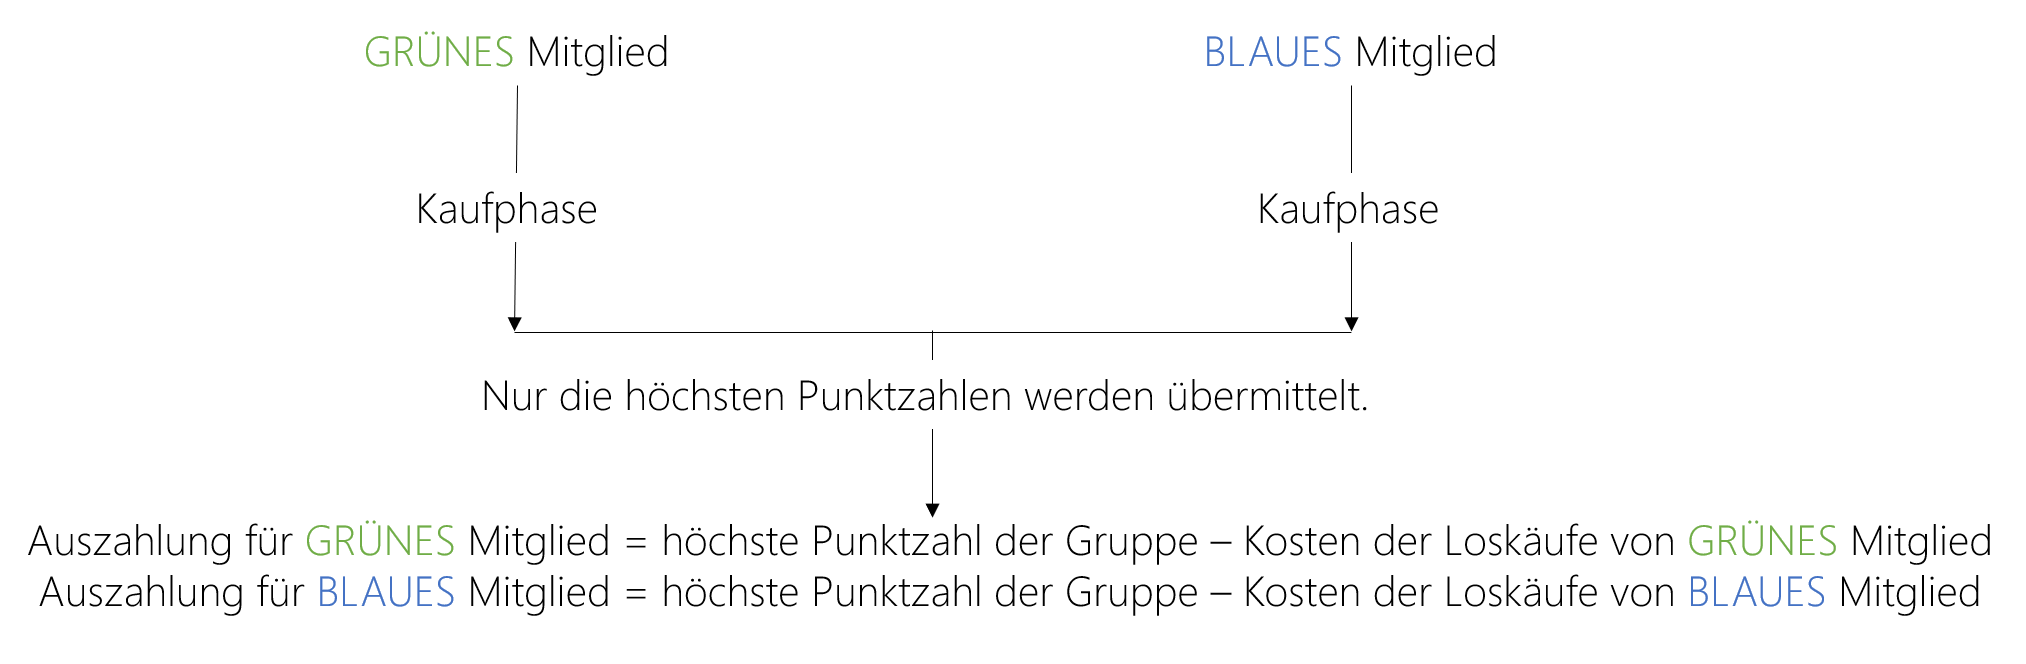
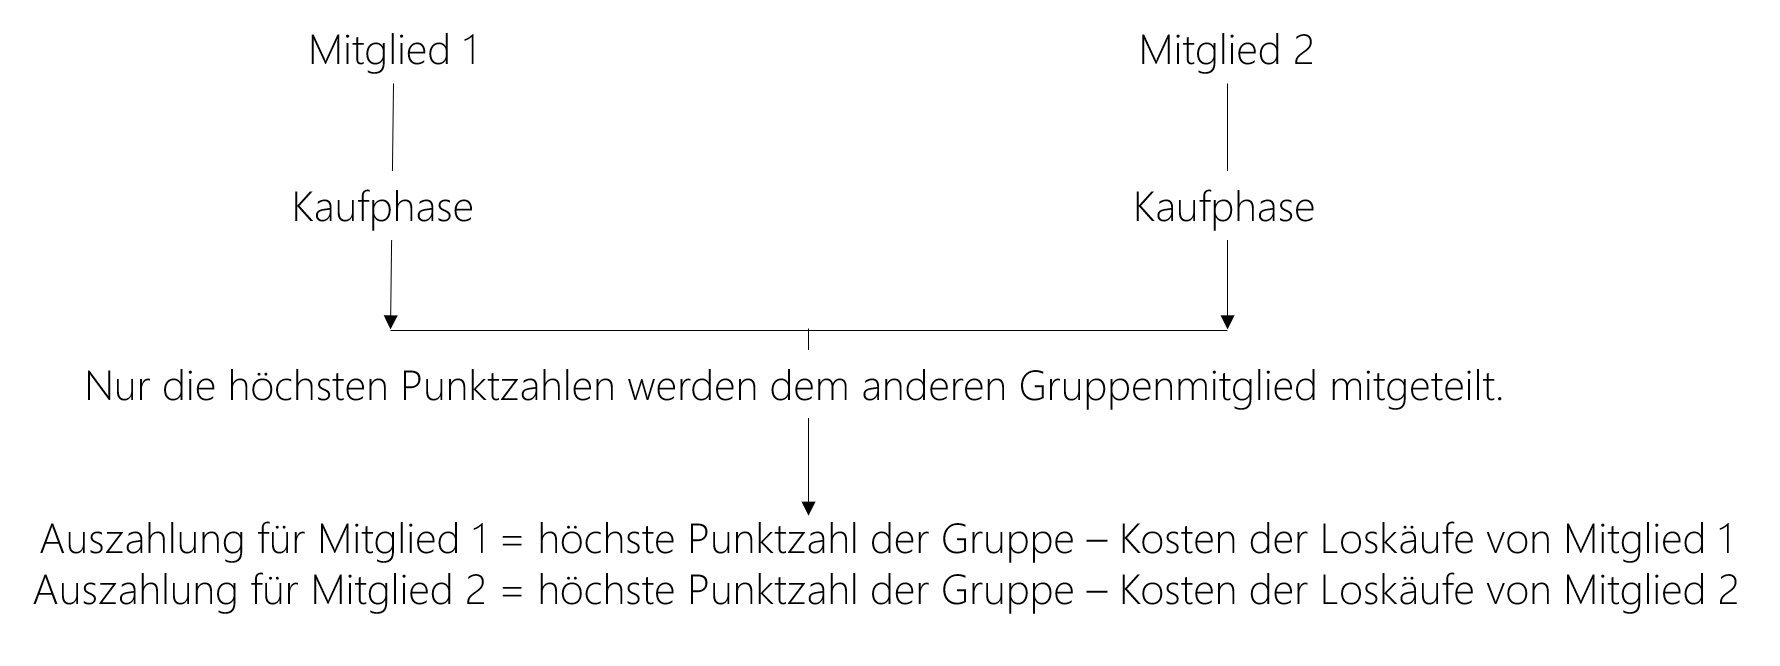
Implement Holger's comments. Question 2 is seperate now.

diff --git a/Instructions/templates/Instructions/Instruction.html b/Instructions/templates/Instructions/Instruction.html
@@ -122,7 +122,9 @@
 
 <p> Bitte beachten Sie, dass Sie auch das Zoom-Meeting nicht verlassen dürfen, bis das Experiment beendet ist. <b>Wenn Sie das Zoom-Meeting vor Ablauf des Experiments verlassen, werden Sie von allen Zahlungen ausgeschlossen.</b> Bitte klicken Sie deshalb während des Experiments niemals auf den Button "Leave Meeting".  </p>
 
-<p> Bitte räumen Sie jetzt alle potentiellen Hilfsmittel wie Stifte, Papier, Taschenrechner, Handy und dergleichen weg. Beachten Sie bitte auch, dass während des gesamten Experiments ein striktes Kommunikationsverbot besteht. Zudem weisen wir Sie darauf hin, dass Sie am Computer nur diejenigen Funktionen bedienen dürfen, die für den Ablauf des Experiments bestimmt sind. Die Nutzung von Hilfsmitteln, Kommunikation mit anderen Personen als dem Studienleiter oder das Herumspielen am Computer sind nicht erlaubt. Wenn Sie gegen diese Regeln verstoßen, werden Sie von der Studie und allen Auszahlungen ausgeschlossen. Bitte lassen Sie während des Experiments Ihre <b>Kameras eingeschaltet und Mikrofone ausgeschaltet</b>. </p>
+<p> Bitte räumen Sie jetzt alle potentiellen Hilfsmittel wie Stifte, Papier, Taschenrechner, Handy und dergleichen weg. Beachten Sie bitte auch, dass während des gesamten Experiments ein striktes Kommunikationsverbot besteht. Zudem weisen wir Sie darauf hin, dass Sie am Computer nur diejenigen Funktionen bedienen dürfen, die für den Ablauf des Experiments bestimmt sind. Die Nutzung von Hilfsmitteln, Kommunikation mit anderen Personen als dem Studienleiter oder das Herumspielen am Computer sind nicht erlaubt. Wenn Sie gegen diese Regeln verstoßen, werden Sie von der Studie und allen Auszahlungen ausgeschlossen. </p> 
+
+<p> Bitte lassen Sie während des Experiments Ihre <b>Kameras eingeschaltet und Mikrofone ausgeschaltet</b>. </p>
 
 <button onclick="topFunction()" type="button" class="nexttab btn-primary btn next">Weiter</button>
   </div>
@@ -148,7 +150,7 @@
 
 <p> Die Entscheidungen, die Sie während des Experiments treffen, und die Angaben, die Sie in der Befragung machen, werden nur in anonymisierter Form ausgewertet, d.h. bei der Datenauswertung werden Ihre Angaben niemals mit Ihrem Namen in Verbindung gebracht werden. Persönliche Angaben, wie Namen und Bankverbindungen werden in diesem Datensatz nicht gespeichert, sondern werden ausschließlich für die Abwicklung der Auszahlung verwendet.  </p>
 
-<p> Im Experiment werden Sie unter Umständen mit einem anderen am Experiment Teilnehmenden interagieren. Niemand wird aber die Identität des jeweils anderen Teilnehmenden erfahren. Somit wird kein anderer Teilnehmender am Ende wissen, welche Auszahlung Sie bekommen.  </p>
+<p> Im Experiment werden Sie unter Umständen mit einer anderen Person im Experiment interagieren. Niemand wird aber die Identität der anderen Person erfahren. Somit wird kein anderer Teilnehmender am Ende wissen, welche Auszahlung Sie bekommen.  </p>
 
     <button onclick="topFunction()" type="button" class="prevtab btn-primary btn back">Zurück</button>
 <button onclick="topFunction()" type="button" class="nexttab btn-primary btn next">Weiter</button>
@@ -170,15 +172,11 @@
 <p> Jetzt erklären wir das Experiment! </p>
 
 <p> <b> Die Gruppen:</b> <br>
-Im Entscheidungsexperiment werden Sie zufällig einem anderen Teilnehmenden zugeordnet. Sie werden die Aufgabe mit diesem Teilnehmenden als Gruppe bearbeiten.  </p>
+Im Entscheidungsexperiment werden Sie zufällig einer anderen Person zugeordnet. Sie werden die Aufgabe mit dieser Person als Gruppe bearbeiten.  </p>
 
 <p> <b> Die Gruppenaufgabe:</b> <br>
-Die Aufgabe der Gruppe besteht darin, durch Loskäufe Punkte zu erwerben. Das Los mit der höchsten Punktzahl, das von einem der beiden Gruppenmitglieder gezogen wurde, bestimmt Ihre Auszahlung. Jedes Mitglied einer 2er-Gruppe kann während einer 10-minütigen Kaufphase Lose kaufen. Während der Kaufphase erfahren Sie nicht, ob und wie viele Lose das andere Gruppenmitglied kauft. Über die höchste vom anderen Gruppenmitglied gezogene Punktzahl werden Sie erst am Ende Kaufphase informiert.  </p>
+Die Aufgabe der Gruppe besteht darin, Punkte zu erwerben. Jedes gekaufte Los hat eine zufällige Punktzahl. Das Los mit der höchsten Punktzahl, das von einem der beiden Gruppenmitglieder gezogen wurde, bestimmt Ihre Auszahlung. Jedes Mitglied einer 2er-Gruppe kann während einer 10-minütigen Kaufphase Lose kaufen. </p>
 
-<p> <b> Die Kaufphase:</b> <br>
-Zunächst fragt das System Sie (und das andere Gruppenmitglied), ob Sie ein Los kaufen möchten. Sie können sich für den Kauf eines Loses entscheiden, indem Sie auf den Button "Los kaufen" klicken. Jeder Loskauf kostet den Käufer einen Punkt. Die Kosten für Loskäufe werden später nur dem Käufer in Rechnung gestellt. <br> <br>
-Sobald Sie ein Los gekauft haben, zieht der Computer aus einem vorgegebenen Intervall eine Punktzahl. Diese Punktzahl wird Ihnen sofort nach der Ziehung mitgeteilt, dem anderen Gruppenmitglied aber nicht. Jede Ziehung dauert etwa 10 Sekunden. <br> <br>
-Sie können sich danach entscheiden, ob Sie ein weiteres Los kaufen möchten oder nicht. Jedes Gruppenmitglied kann so viele Lose kaufen, wie es möchte und zeitlich möglich ist, oder sich entscheiden, keine Lose zu kaufen. Insgesamt steht ein Kaufzeitraum von 10 Minuten zu Verfügung. Während dieses Zeitraums können Sie entweder Lose kaufen oder die Zeit verstreichen lassen. Es ist nicht möglich, die Kaufphase früher zu beenden.  </p>
 
 
     <button onclick="topFunction()" type="button" class="prevtab btn-primary btn back">Zurück</button>
@@ -193,10 +191,37 @@ Sie können sich danach entscheiden, ob Sie ein weiteres Los kaufen möchten ode
 
 
 <div class="card-header bg-transparent mainheader" >
- <h3 class="card-title font-weight-bold mt-3 mb-3"> Zusammensetzung der Gruppe </h3>
+ <h3 class="card-title font-weight-bold mt-3 mb-3"> Das Entscheidungsexperiment </h3>
   </div>
 <br>
 
+
+<p> <b> Die Kaufphase:</b> <br>
+Zunächst fragt das System Sie (und das andere Gruppenmitglied), ob Sie ein Los kaufen möchten. Sie können sich für den Kauf eines Loses entscheiden, indem Sie auf den Button "Los kaufen" klicken. Jeder Loskauf kostet den Käufer einen Punkt. Die Kosten für Loskäufe werden später nur dem Käufer in Rechnung gestellt. <br> <br>
+Sobald Sie sich entscheiden, ein Los zu kaufen, zieht der Computer aus einem vorgegebenen Intervall eine Punktzahl. Diese Punktzahl wird Ihnen sofort nach der Ziehung mitgeteilt, dem anderen Gruppenmitglied aber <b>nicht</b>. Jede Ziehung dauert etwa 10 Sekunden. <br> <br>
+Sie können sich danach entscheiden, ob Sie ein weiteres Los kaufen möchten oder nicht. Jedes Gruppenmitglied kann so viele Lose kaufen, wie es möchte und zeitlich möglich ist, oder sich entscheiden, keine Lose zu kaufen. Insgesamt steht ein Kaufzeitraum von 10 Minuten zu Verfügung. Während dieses Zeitraums können Sie entweder Lose kaufen oder die Zeit verstreichen lassen. Es ist nicht möglich, die Kaufphase früher zu beenden. <br>
+Während der Kaufphase erfahren Sie nicht, ob und wie viele Lose das andere Gruppenmitglied kauft. Über die höchste vom anderen Gruppenmitglied gezogene Punktzahl werden Sie erst am Ende Kaufphase informiert. </p>
+<br>
+                <p><center><img align="middle" width=90%
+                        src="{% static "Instructions/diagram/diagram.png" %}"/></center></p> 
+                <br>
+
+
+    <button onclick="topFunction()" type="button" class="prevtab btn-primary btn back">Zurück</button>
+<button onclick="topFunction()" type="button" class="nexttab btn-primary btn next">Weiter</button>
+  </div>
+
+
+
+
+  <div class="tab-pane" id="part5" role="tabpanel" aria-labelledby="part5-tab">
+
+
+<div class="card-header bg-transparent mainheader" >
+ <h3 class="card-title font-weight-bold mt-3 mb-3">Zusammensetzung der Gruppe</h3>
+  </div>
+<br>
+    
 
 <p> <b> Die Typen:</b> <br>
 In jeder Gruppe gibt es ein <text style="color:blue";>BLAUES</text> Gruppenmitglied und ein <text style="color:green";>GRÜNES</text> Gruppenmitglied. <br>
@@ -219,8 +244,9 @@ Bitte beachten Sie, dass der grüne Spieler aus einem Lostopf zieht, der Lose mi
 
 
 
-  <div class="tab-pane" id="part5" role="tabpanel" aria-labelledby="part5-tab">
 
+  <div class="tab-pane" id="part6" role="tabpanel" aria-labelledby="part6-tab">
+ 
 
 <div class="card-header bg-transparent mainheader" >
  <h3 class="card-title font-weight-bold mt-3 mb-3">Bestimmung der Auszahlung</h3>
@@ -234,27 +260,20 @@ Ihre Auszahlung in Punkten = Punktzahl des Loses mit der höchsten Punktzahl in 
 
 <p> Bitte beachten Sie, dass bis auf das Los mit der höchsten Punktzahl in der Gruppe alle anderen Lose für die Auszahlung irrelevant sind. Sie zahlen dennoch die Kosten für alle von Ihnen gekauften Lose.  </p>
  <br>
-                <p><center><img align="middle" width=90%
-                        src="{% static "Instructions/diagram/diagram.png" %}"/></center></p> 
-                <br>
-
 
     <button onclick="topFunction()" type="button" class="prevtab btn-primary btn back">Zurück</button>
 <button onclick="topFunction()" type="button" class="nexttab btn-primary btn next">Weiter</button>
   </div>
 
 
+  <div class="tab-pane" id="part7" role="tabpanel" aria-labelledby="part7-tab">
 
-
-
-  <div class="tab-pane" id="part6" role="tabpanel" aria-labelledby="part6-tab">
- 
 
 <div class="card-header bg-transparent mainheader" >
  <h3 class="card-title font-weight-bold mt-3 mb-3">Beispiel 1 </h3>
   </div>
 <br>
-    
+ 
 <div class="row">
   <div class="column">
     <b>1. Gruppenmitglied</b>
@@ -278,14 +297,14 @@ Die Auszahlung für das 2. Gruppenmitglied  beträgt: 60 - 8 = 52 Punkte </p>
   </div>
 
 
-  <div class="tab-pane" id="part7" role="tabpanel" aria-labelledby="part7-tab">
+  <div class="tab-pane" id="part8" role="tabpanel" aria-labelledby="part8-tab">
 
 
 <div class="card-header bg-transparent mainheader" >
  <h3 class="card-title font-weight-bold mt-3 mb-3">Beispiel 2 </h3>
   </div>
 <br>
- 
+    
 <div class="row">
   <div class="column">
     <b>1. Gruppenmitglied</b>
@@ -310,7 +329,7 @@ Die Auszahlung für das 2. Gruppenmitglied  beträgt: 50 - 0 = 50 Punkte </p>
   </div>
 
 
-  <div class="tab-pane" id="part8" role="tabpanel" aria-labelledby="part8-tab">
+  <div class="tab-pane" id="part9" role="tabpanel" aria-labelledby="part9-tab">
 
 
 <div class="card-header bg-transparent mainheader" >
@@ -331,50 +350,6 @@ Ihre Antwort:
 {% formfield player.q1 %}
 
 {% formfield player.q2 %}
-
-<div class="d-flex justify-content-center">
-  <button class="btn btn-outline-secondary" type="button" data-toggle="collapse" data-target="#collapseExample" style="background-color: rgb(175, 175, 175); color: white;">
-      Bitte klicken Sie hier, um die Instruktionen zu lesen.
-  </button>
-</div>
-
-<br>
-
-<div class="collapse" id="collapseExample">
-
-{% include "global/main/collapsed_inst.html" %}
- <br>
-                <p><center><img align="middle" width=90%
-                        src="{% static "Instructions/diagram/diagram.png" %}"/></center></p> 
-                <br>
-
-</div>
-
-
-    <button onclick="topFunction()" type="button" class="prevtab btn-primary btn back">Zurück</button>
-<button onclick="topFunction()" type="button" class="nexttab btn-primary btn next">Weiter</button>
-  </div>
-
-
-  <div class="tab-pane" id="part9" role="tabpanel" aria-labelledby="part9-tab">
-
-
-<div class="card-header bg-transparent mainheader" >
- <h3 class="card-title font-weight-bold mt-3 mb-3">Bitte berechnen Sie die Auszahlungen </h3>
-  </div>
-<br>
-    
-<p> <b> Szenario 2:</b> <br> 
-Die höchste gezogene Punktzahl des 1. Gruppenmitglieds beträgt: 45 Punkte <br>
-Die höchste gezogene Punktzahl des 2. Gruppenmitglieds beträgt: 90 Punkte <br>
-Anzahl der Loskäufe des 1. Gruppenmitglieds: 2 <br>
-Anzahl der Loskäufe des 2. Gruppenmitglieds: 7 <br> <br>
-Ihre Antwort:
- </p>
-
-{% formfield player.q3 %}
-
-{% formfield player.q4 %}
 
 <div class="d-flex justify-content-center">
   <button class="btn btn-outline-secondary" type="button" data-toggle="collapse" data-target="#collapseExample" style="background-color: rgb(175, 175, 175); color: white;">

diff --git a/Instructions/templates/Instructions/Question2.html b/Instructions/templates/Instructions/Question2.html
@@ -1,0 +1,43 @@
+{% extends "global/Page.html" %}
+{% load otree static %}
+
+
+
+{% block content %}
+<div class="card-header bg-transparent mainheader" >
+ <h3 class="card-title font-weight-bold mt-3 mb-3">Bitte berechnen Sie die Auszahlungen </h3>
+  </div>
+
+<p> <b> Szenario 2:</b> <br> 
+Die höchste gezogene Punktzahl des 1. Gruppenmitglieds beträgt: 45 Punkte <br>
+Die höchste gezogene Punktzahl des 2. Gruppenmitglieds beträgt: 90 Punkte <br>
+Anzahl der Loskäufe des 1. Gruppenmitglieds: 2 <br>
+Anzahl der Loskäufe des 2. Gruppenmitglieds: 7 <br> <br>
+Ihre Antwort:
+ </p>
+
+{% formfield player.q3 %}
+
+{% formfield player.q4 %}
+
+<div class="d-flex justify-content-center">
+  <button class="btn btn-outline-secondary" type="button" data-toggle="collapse" data-target="#collapseExample" style="background-color: rgb(175, 175, 175); color: white;">
+      Bitte klicken Sie hier, um die Instruktionen zu lesen.
+  </button>
+</div>
+
+<br>
+
+<div class="collapse" id="collapseExample">
+
+{% include "global/main/collapsed_inst.html" %}
+ <br>
+                <p><center><img align="middle" width=90%
+                        src="{% static "Instructions/diagram/diagram.png" %}"/></center></p> 
+                <br>
+
+</div>
+
+
+    <button class="otree-btn-next btn btn-primary" style="float: right;">Weiter</button>
+{% endblock %}

diff --git a/_templates/global/main/bonus.html b/_templates/global/main/bonus.html
@@ -1,8 +1,9 @@
 <p> Dies ist eine Bonusfrage. Sie erhalten zusätzliche 10 Punkte (€ 1,50), wenn Sie sie richtig beantworten. </p>
 
-<p> Nehmen Sie an, das grüne Gruppenmitglied spielt die richtige Strategie, um seine erwartete Auszahlung zu maximieren, und kann ohne ein Zeitlimit Lose kaufen. Wie viele Lose sollte das blaue Gruppenmitglied kaufen, um seine erwartete Auszahlung zu maximieren? </p>
-
 <p> Zur Erinnerung:<br>
 Die Punktzahl der Lose des <text style="color:blue";>BLAUEN</text> Gruppenmitglieds liegt zwischen 0 und 65 Punkten. <br>
 Die Punktzahl der Lose des <text style="color:green";>GRÜNEN</text> Gruppenmitglieds liegt zwischen 35 und 100 Punkten.
 </p>
+
+<p> Nehmen Sie an, das <text style="color:green";>GRÜNE</text> Gruppenmitglied spielt die richtige Strategie, um seine erwartete Auszahlung zu maximieren, und kann ohne ein Zeitlimit Lose kaufen. Wie viele Lose sollte das <text style="color:blue";>BLAUE</text> Gruppenmitglied kaufen, um seine erwartete Auszahlung zu maximieren? </p>
+

diff --git a/Instructions/models.py b/Instructions/models.py
@@ -45,41 +45,37 @@ class Player(BasePlayer):
 
 
 
-    def set_error_message(self,value):
+    def set_error_message1(self,value):
         correct_ans1 = {
                                 "q1" : 81,
                                 "q2" : 76,
                                  }
 
+
+        list_answers1 = list(value.items())[0:2] 
+        list_correct_answers1 = list(correct_ans1.items())
+
+        if list_answers1 != list_correct_answers1:
+
+          Text1 = 'Sie haben nicht alle Fragen des Szenarios 1 richtig beantwortet. Bitte lesen Sie die Instruktionen noch einmal und korrigieren Sie Ihre Antworten.'
+
+          self.show_tab = 9
+          return Text1
+
+
+    def set_error_message2(self,value):
         correct_ans2 = {
                                 "q3" : 88,
                                 "q4" : 83,
                                  }
 
-        list_answers1 = list(value.items())[0:2] 
-        list_correct_answers1 = list(correct_ans1.items())
-        list_answers2 = list(value.items())[2:4] 
+        list_answers2 = list(value.items())[0:2] 
         list_correct_answers2 = list(correct_ans2.items())
 
-        if list_answers1 != list_correct_answers1 and list_answers2 == list_correct_answers2:
-
-          Text1 = 'Sie haben nicht alle Fragen des Szenarios 1 richtig beantwortet. Bitte lesen Sie die Instruktionen noch einmal und korrigieren Sie Ihre Antworten.'
-
-          self.show_tab = 8
-          return Text1
-
-        elif list_answers1 == list_correct_answers1 and list_answers2 != list_correct_answers2:
+        if list_answers2 != list_correct_answers2:
 
           Text2 = 'Sie haben nicht alle Fragen des Szenarios 2 richtig beantwortet. Bitte lesen Sie die Instruktionen noch einmal und korrigieren Sie Ihre Antworten.'
 
-          self.show_tab = 9
           return Text2
-
-        elif list_answers1 != list_correct_answers1 and list_answers2 != list_correct_answers2:
-
-          Text12 = 'Sie haben nicht alle Fragen der Szenarien 1 und 2 richtig beantwortet. Bitte lesen Sie die Instruktionen noch einmal und korrigieren Sie Ihre Antworten.'
-
-          self.show_tab = 8
-          return Text12
 
 

diff --git a/Instructions/pages.py b/Instructions/pages.py
@@ -6,10 +6,10 @@ from .models import Constants
 
 class Instruction(Page):
     form_model = 'player'
-    form_fields = ['q1', 'q2', 'q3', 'q4']
+    form_fields = ['q1', 'q2']
 
     def error_message(self, value):
-        return self.player.set_error_message(value)
+        return self.player.set_error_message1(value)
 
 
 class Popup(Page):
@@ -19,11 +19,21 @@ class Popup(Page):
             popup_duration=Constants.pop_up_duration
         )
 
+class Question2(Page):
+    form_model = 'player'
+    form_fields = ['q3', 'q4']
+
+    def error_message(self, value):
+        return self.player.set_error_message2(value)
+
+
+
 class Correct(Page):
     pass
 
 page_sequence = [
     Instruction,
+    Question2,
     Correct,
     Popup
 ]

diff --git a/main_exp_computer/models.py b/main_exp_computer/models.py
@@ -22,7 +22,7 @@ class Constants(BaseConstants):
     players_per_group = None
     num_rounds = 1
     #total timeout
-    task_timeout = 60*1
+    task_timeout = 60*10
     cost = 1
     # payment to inattentive subjects (usually =participation fee)
     pay_inattention = 3

diff --git a/main_exp/models.py b/main_exp/models.py
@@ -22,7 +22,7 @@ class Constants(BaseConstants):
     players_per_group = 2
     num_rounds = 1
     #total timeout
-    task_timeout = 60*1
+    task_timeout = 60*10
     cost = 1
     # payment to inattentive subjects (usually =participation fee)
     pay_inattention = 3
